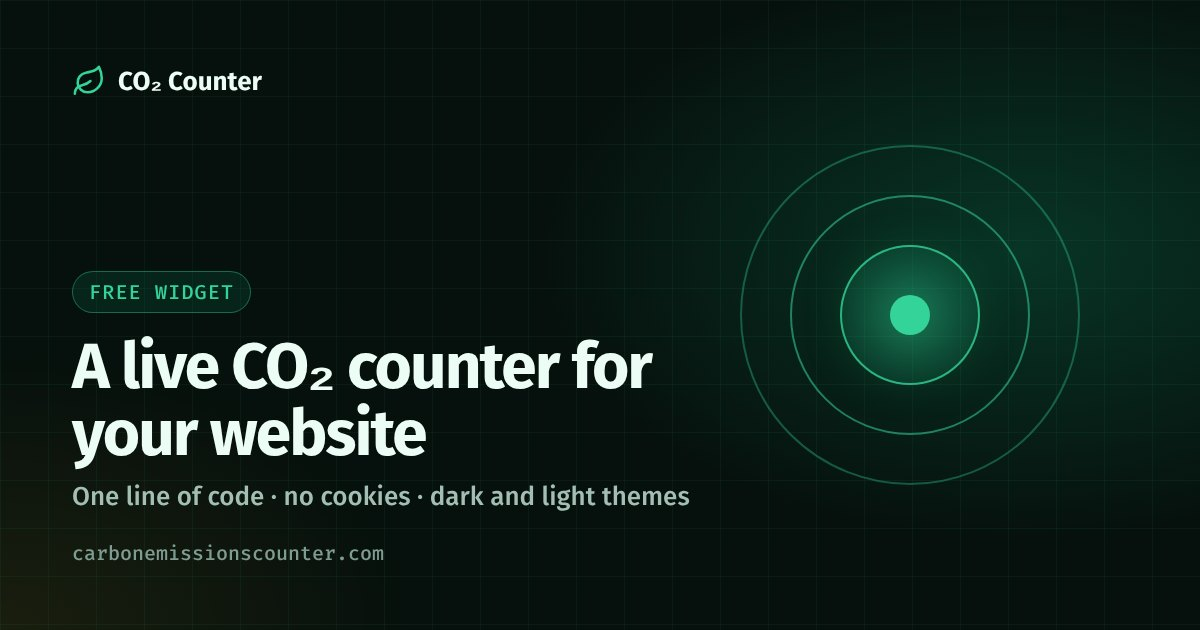
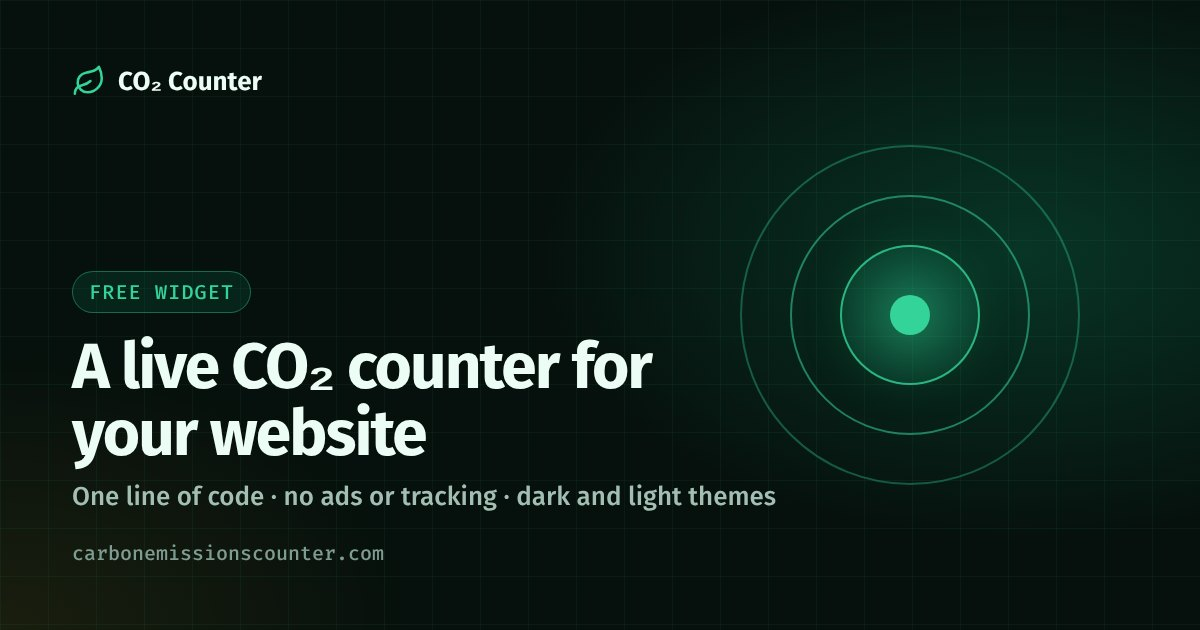
Fix widget FAQ structured data; accurate privacy description and widget share image
- widget.html: the FAQ structured data got the linked answer (its quotes broke
  the JSON); it now has the plain text and the visible FAQ has the link.
- Privacy page description: 'sets no cookies of its own'.
- Widget share image: 'no ads or tracking' instead of 'no cookies'.
- All structured data on every page parses.

Claude-Session: https://claude.ai/code/session_01GtFu3NXdGXFiv2yN6D1S81

Changed region(s): [[0.2467, 0.754, 0.6475, 0.8143]]

diff --git a/static/widget.html b/static/widget.html
@@ -74,7 +74,7 @@
         @media (max-width: 520px) { .wg-step { grid-template-columns: 1fr; } }
     </style>
     <script type="application/ld+json">{"@context":"https://schema.org","@type":"BreadcrumbList","itemListElement":[{"@type":"ListItem","position":1,"name":"Home","item":"https://www.carbonemissionscounter.com/"},{"@type":"ListItem","position":2,"name":"CO₂ counter widget","item":"https://www.carbonemissionscounter.com/widget"}]}</script>
-    <script type="application/ld+json">{"@context":"https://schema.org","@type":"FAQPage","mainEntity":[{"@type":"Question","name":"Is the CO₂ counter widget free?","acceptedAnswer":{"@type":"Answer","text":"Yes. Both widgets are free for any website, including schools, blogs, businesses and non-profits. Please keep the small credit link."}},{"@type":"Question","name":"Does the widget track visitors or use cookies?","acceptedAnswer":{"@type":"Answer","text":"No. The widget is a small static page that shows no ads and sets no cookies of its own. Our host, Cloudflare, counts visits without cookies and may set one strictly necessary security cookie (cf_clearance) to keep bots out. See our <a href="/privacy">privacy policy</a>."}},{"@type":"Question","name":"Where do the widget's numbers come from?","acceptedAnswer":{"@type":"Answer","text":"Both widgets use the Global Carbon Budget 2025. The counter spreads its estimate of 42.2 billion tonnes of CO₂ a year (fossil fuels plus land-use change) evenly over the year: about 1,338 tonnes per second. The carbon budget countdown starts from 170 billion tonnes left on 1 January 2026, for a 50% chance of keeping warming to 1.5 °C, and counts down at the same rate."}},{"@type":"Question","name":"Can I show the counter on a big screen or in a presentation?","acceptedAnswer":{"@type":"Answer","text":"Yes. Choose a widget and theme, then select Open full screen. The numbers grow to fill the window, so you can show it on a projector or TV, or share that browser window in a video call."}}]}</script>
+    <script type="application/ld+json">{"@context":"https://schema.org","@type":"FAQPage","mainEntity":[{"@type":"Question","name":"Is the CO₂ counter widget free?","acceptedAnswer":{"@type":"Answer","text":"Yes. Both widgets are free for any website, including schools, blogs, businesses and non-profits. Please keep the small credit link."}},{"@type":"Question","name":"Does the widget track visitors or use cookies?","acceptedAnswer":{"@type":"Answer","text":"No. The widget is a small static page that shows no ads and sets no cookies of its own. Our host, Cloudflare, counts visits without cookies and may set one strictly necessary security cookie (cf_clearance) to keep bots out. See our privacy policy."}},{"@type":"Question","name":"Where do the widget's numbers come from?","acceptedAnswer":{"@type":"Answer","text":"Both widgets use the Global Carbon Budget 2025. The counter spreads its estimate of 42.2 billion tonnes of CO₂ a year (fossil fuels plus land-use change) evenly over the year: about 1,338 tonnes per second. The carbon budget countdown starts from 170 billion tonnes left on 1 January 2026, for a 50% chance of keeping warming to 1.5 °C, and counts down at the same rate."}},{"@type":"Question","name":"Can I show the counter on a big screen or in a presentation?","acceptedAnswer":{"@type":"Answer","text":"Yes. Choose a widget and theme, then select Open full screen. The numbers grow to fill the window, so you can show it on a projector or TV, or share that browser window in a video call."}}]}</script>
 </head>
 <body>
     <div class="container">
@@ -189,7 +189,7 @@
                 <section class="bp-faq" aria-labelledby="faq-title">
                     <h2 id="faq-title">Questions and answers</h2>
                     <details class="bp-faq-item"><summary>Is the CO&#8322; counter widget free?</summary><p>Yes. Both widgets are free for any website, including schools, blogs, businesses and non-profits. Please keep the small credit link.</p></details>
-                    <details class="bp-faq-item"><summary>Does the widget track visitors or use cookies?</summary><p>No. The widget is a small static page that shows no ads and sets no cookies of its own. Our host, Cloudflare, counts visits without cookies and may set one strictly necessary security cookie (cf_clearance) to keep bots out. See our privacy policy.</p></details>
+                    <details class="bp-faq-item"><summary>Does the widget track visitors or use cookies?</summary><p>No. The widget is a small static page that shows no ads and sets no cookies of its own. Our host, Cloudflare, counts visits without cookies and may set one strictly necessary security cookie (cf_clearance) to keep bots out. See our <a href="/privacy">privacy policy</a>.</p></details>
                     <details class="bp-faq-item"><summary>Where do the widget&rsquo;s numbers come from?</summary><p>Both widgets use the Global Carbon Budget 2025. The counter spreads its estimate of 42.2 billion tonnes of CO&#8322; a year (fossil fuels plus land-use change) evenly over the year: about 1,338 tonnes per second. The carbon budget countdown starts from 170 billion tonnes left on 1 January 2026, for a 50% chance of keeping warming to 1.5&nbsp;&deg;C, and counts down at the same rate.</p></details>
                     <details class="bp-faq-item"><summary>Can I show the counter on a big screen or in a presentation?</summary><p>Yes. Choose a widget and theme, then select <strong>Open full screen</strong>. The numbers grow to fill the window, so you can show it on a projector or TV, or share that browser window in a video call.</p></details>
                 </section>

diff --git a/static/privacy.html b/static/privacy.html
@@ -4,13 +4,13 @@
     <meta charset="UTF-8">
     <meta name="viewport" content="width=device-width, initial-scale=1.0">
     <title>Privacy Policy | Carbon Emissions Counter</title>
-    <meta name="description" content="Carbon Emissions Counter sets no cookies, runs no tracking or ads and collects no personal data. Here is exactly what happens when you visit.">
+    <meta name="description" content="Carbon Emissions Counter runs no ads or tracking, sets no cookies of its own and collects no personal data. Here is exactly what happens when you visit.">
     <meta name="robots" content="index, follow">
     <link rel="canonical" href="https://www.carbonemissionscounter.com/privacy">
     <meta property="og:type" content="website">
     <meta property="og:url" content="https://www.carbonemissionscounter.com/privacy">
     <meta property="og:title" content="Privacy Policy | Carbon Emissions Counter">
-    <meta property="og:description" content="Carbon Emissions Counter sets no cookies, runs no tracking or ads and collects no personal data. Here is exactly what happens when you visit.">
+    <meta property="og:description" content="Carbon Emissions Counter runs no ads or tracking, sets no cookies of its own and collects no personal data. Here is exactly what happens when you visit.">
     <meta property="og:site_name" content="Carbon Emissions Counter">
     <meta property="og:image" content="https://www.carbonemissionscounter.com/og/home.jpg">
     <meta name="twitter:card" content="summary_large_image">
@@ -23,7 +23,7 @@
     <link rel="stylesheet" href="/css/theme-2026.css?v=2026-10l">
     <link rel="stylesheet" href="/css/post-2026.css?v=2026-10e">
     <script type="application/ld+json">{"@context": "https://schema.org", "@type": "BreadcrumbList", "itemListElement": [{"@type": "ListItem", "position": 1, "name": "Home", "item": "https://www.carbonemissionscounter.com/"}, {"@type": "ListItem", "position": 2, "name": "Privacy policy", "item": "https://www.carbonemissionscounter.com/privacy"}]}</script>
-    <script type="application/ld+json">{"@context": "https://schema.org", "@type": "WebPage", "name": "Privacy policy", "url": "https://www.carbonemissionscounter.com/privacy", "description": "Carbon Emissions Counter sets no cookies, runs no tracking or ads and collects no personal data. Here is exactly what happens when you visit.", "dateModified": "2026-10-24", "isPartOf": {"@type": "WebSite", "name": "Carbon Emissions Counter", "url": "https://www.carbonemissionscounter.com/"}, "publisher": {"@type": "Organization", "name": "Carbon Emissions Counter", "url": "https://www.carbonemissionscounter.com/", "email": "hello@carbonemissionscounter.com"}}</script>
+    <script type="application/ld+json">{"@context": "https://schema.org", "@type": "WebPage", "name": "Privacy policy", "url": "https://www.carbonemissionscounter.com/privacy", "description": "Carbon Emissions Counter runs no ads or tracking, sets no cookies of its own and collects no personal data. Here is exactly what happens when you visit.", "dateModified": "2026-10-24", "isPartOf": {"@type": "WebSite", "name": "Carbon Emissions Counter", "url": "https://www.carbonemissionscounter.com/"}, "publisher": {"@type": "Organization", "name": "Carbon Emissions Counter", "url": "https://www.carbonemissionscounter.com/", "email": "hello@carbonemissionscounter.com"}}</script>
 </head>
 <body>
     <div class="container">

diff --git a/tools/pages/build.py b/tools/pages/build.py
@@ -398,7 +398,7 @@ PAGES = {
                 contact, 'ContactPage'),
     'privacy': ('Privacy Policy | Carbon Emissions Counter',
                 ('How Carbon Emissions Counter handles your data, including the advertising cookies used by Google AdSense and how to opt out.' if ADS else
-                 'Carbon Emissions Counter sets no cookies, runs no tracking or ads and collects no personal data. Here is exactly what happens when you visit.'),
+                 'Carbon Emissions Counter runs no ads or tracking, sets no cookies of its own and collects no personal data. Here is exactly what happens when you visit.'),
                 'Privacy policy', 'Legal', privacy_dek, privacy, 'WebPage'),
     'terms': ('Terms of Use | Carbon Emissions Counter',
               'Terms of use for Carbon Emissions Counter: how the estimates should be used, how to cite and share our content, and how to embed the free counter.',

diff --git a/tools/og/jobs.py b/tools/og/jobs.py
@@ -22,7 +22,7 @@ def main():
         {'name': 'home', 'kicker': 'Live estimate', 'title': 'Carbon Emissions Counter Live',
          'big': '1,338 t', 'sub': 'of CO₂ emitted every second worldwide', 'ring': True},
         {'name': 'widget', 'kicker': 'Free widget', 'title': 'A live CO₂ counter for your website',
-         'big': '', 'sub': 'One line of code · no cookies · dark and light themes', 'ring': True},
+         'big': '', 'sub': 'One line of code · no ads or tracking · dark and light themes', 'ring': True},
     ]
     data = json.load(open(os.path.join(ROOT, 'tools', 'countries', 'data.json'), encoding='utf-8'))
     year = data['year']
